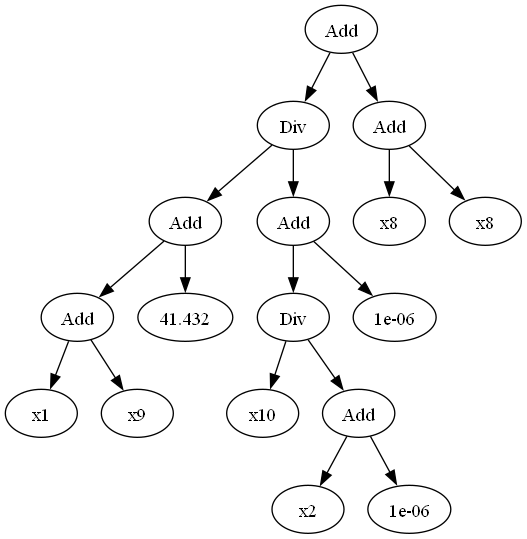
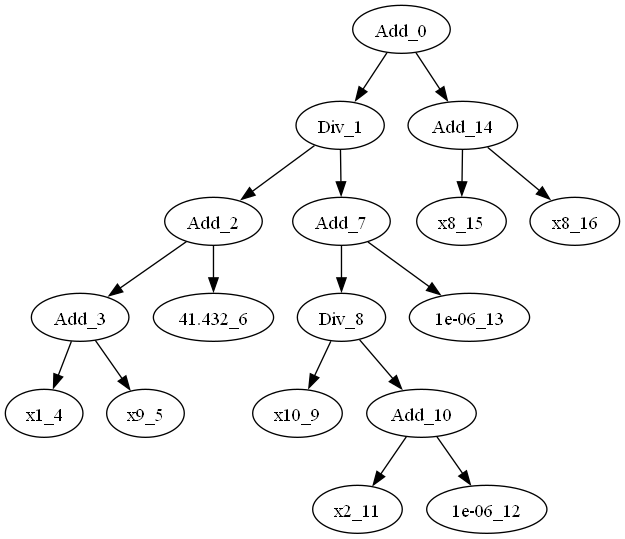
Add a lot of stuff

diff --git a/GpModel/astTest.py b/GpModel/astTest.py
@@ -19,7 +19,6 @@ def get_second_child_name(node):
 
 def create_ast_graph(graph, node, parent_name, index=''):
     current_name = f'{parent_name}_{index}' if parent_name else 'Root'
-    print(str(node.__class__.__name__))
     if isinstance(node, ast.BinOp):
         graph.node(current_name, label=get_second_child_name(node))
         for i, child in enumerate(ast.iter_child_nodes(node)):
@@ -56,7 +55,7 @@ def printSubTrees(node):
             printSubTrees(child_node)
 
 
-expr = "(57.700000/ (x10+1e-6))"
+expr = "(57.700000+ (x10/1e-6))"
 parsed = ast.parse(expr)
 
 expr2 = "x0 * (x10+1e-6)"
@@ -66,38 +65,65 @@ expr3= "(((x1+(2.793000*x8))*(57.470000*(32.096000+x2)))+(((36.191000/ (x6+1e-6)
 parsed3 = ast.parse(expr3)
 
 subtrees = []
-printSubTrees(parsed)
-printSubTrees(parsed2)
-printSubTrees(parsed3)
+# printSubTrees(parsed)
+# printSubTrees(parsed2)
+# printSubTrees(parsed3)
 # print(subtrees)
 
-subDic = {}
-speedDic = {}
-testExpr = "x0 * (x10+1e-6)"
-for subtree in subtrees:
-    symExpr = parse_expr(subtree)
-    test = simplify(parse_expr(testExpr)- symExpr)
-    speedDic[test] = speedDic.get(test, 0) + 1
-    found = False
-    if speedDic[test] > 1:
-        for key in subDic:
-            print("sym:", symExpr, "key:", key)
-            if simplify(key - symExpr) == 0:
-                subDic[key] = subDic.get(key, 0) + 1
-                found = True
-                break
-    if not found:
-        subDic[symExpr] = subDic.get(symExpr, 0) + 1
-subDic = sorted(subDic.items(), key=lambda x:x[1], reverse=True)
-print(subDic)
+# subDic = {}
+# speedDic = {}
+# testExpr = "x0 * (x10+1e-6)"
+# for subtree in subtrees:
+#     symExpr = parse_expr(subtree)
+#     test = simplify(parse_expr(testExpr)- symExpr)
+#     speedDic[test] = speedDic.get(test, 0) + 1
+#     found = False
+#     if speedDic[test] > 1:
+#         for key in subDic:
+#             print("sym:", symExpr, "key:", key)
+#             if simplify(key - symExpr) == 0:
+#                 subDic[key] = subDic.get(key, 0) + 1
+#                 found = True
+#                 break
+#     if not found:
+#         subDic[symExpr] = subDic.get(symExpr, 0) + 1
+# subDic = sorted(subDic.items(), key=lambda x:x[1], reverse=True)
+# print(subDic)
 # Create the graph
+class MyRemover(ast.NodeTransformer):
+    def __init__(self, node_number):
+        self.node_number = node_number
+        self.index = 0
+
+    def generic_visit(self, node):
+        result = super().generic_visit(node)
+        # print(node.__class__.__name__, self.index)
+
+        if not (isinstance(node, ast.Module) or isinstance(node, ast.Expr)):
+            self.index += 1
+        if self.node_number == self.index:
+            print("Removing:", node.__class__.__name__, self.index-1)
+            return None
+        return result
+    
+    # def visit_Div(self, node):
+    #     node2 = ast.Add()
+    #     ast.copy_location(node2, node)
+    #     ast.NodeVisitor.generic_visit(self, node2)
+    #     return node2
+
+
+visitor = MyRemover(20)
+newTree = visitor.visit(parsed)
+# newTree = ast.fix_missing_locations(newTree)
 # graph = Digraph(comment='AST Tree')
-# create_ast_graph(graph, parsed, '')
+# create_ast_graph(graph, newTree, '')
 
-# Render and save the graph
+# # Render and save the graph
 # graph.render('ast_tree', format='png', cleanup=True)
+# print("Done rendering")
 
-# normal = ast.unparse(parsed)
-# print(normal)
-# dump = ast.dump(parsed, annotate_fields=True)
-# print(dump)
+normal = ast.unparse(newTree)
+print(normal)
+dump = ast.dump(parsed, annotate_fields=True)
+print(dump)

diff --git a/explain/actions/ops.py b/explain/actions/ops.py
@@ -157,31 +157,34 @@ def get_second_child_name(node):
         if i == 1:
             return str(child.__class__.__name__)
 
-def create_ast_graph(graph, node, parent_name, index=''):
+def create_ast_graph(graph, node, parent_name, index='', num=-1):
     current_name = f'{parent_name}_{index}' if parent_name else 'Root'
+    num += 1
     print(str(node.__class__.__name__))
     if isinstance(node, ast.BinOp):
-        graph.node(current_name, label=get_second_child_name(node))
+        graph.node(current_name, label=f'{get_second_child_name(node)}_{num}')
         for i, child in enumerate(ast.iter_child_nodes(node)):
             if i == 1:
                 continue
             child_name = f'{current_name}_{i}'
             graph.edge(current_name, child_name)
-            create_ast_graph(graph, child, current_name, i)
+            num = create_ast_graph(graph, child, current_name, i, num)
     elif isinstance(node, ast.Constant):
-        graph.node(current_name, label=str(node.value))
+        graph.node(current_name, label=f'{node.value}_{num}')
     elif isinstance(node, ast.Name):
-        graph.node(current_name, label=str(node.id))
+        graph.node(current_name, label=f'{node.id}_{num}')
     elif isinstance(node, ast.Module) or isinstance(node, ast.Expr):
+        num -= 1
         for i, child in enumerate(ast.iter_child_nodes(node)):
             child_name = f'{current_name}_{i}'
-            create_ast_graph(graph, child, current_name, i)
+            num = create_ast_graph(graph, child, current_name, i, num)
     elif isinstance(node, ast.AST):
-        graph.node(current_name, label=str(node.__class__.__name__))
+        graph.node(current_name, label=f'{node.__class__.__name__}_{num}')
         for i, child in enumerate(ast.iter_child_nodes(node)):
             child_name = f'{current_name}_{i}'
             graph.edge(current_name, child_name)
-            create_ast_graph(graph, child, current_name, i)
+            num = create_ast_graph(graph, child, current_name, i, num)
+    return num
 
 def plot_tree_operation(conversation, parse_text, i, **kwargs):
     # return_string = '<img src="https://upload.wikimedia.org/wikipedia/commons/7/70/2005-bandipur-tusker.jpg" alt="Girl in a jacket" width="500" height="600">'

diff --git a/GpModel/runModel.py b/GpModel/runModel.py
@@ -1,9 +1,29 @@
 from data.customClassifier import CustomClassifier
+import ast
 
 # expr = "((((x1+x9)+41.432000)/ ((x10/ (x2+1e-6) )+1e-6) )+(x8+x8))"
 expr = "(57.700000/ (x10+1e-6))"
+expr = "(57.700000/ (log(3)))"
 classifier = CustomClassifier(expr, 5, 6)
 # X = [[3,0,7,0,6,0,1,0.686667,0.638263,0.585,0.208342]]
 # res = classifier.predict(X)
-res = classifier.subtrees
-print(res)
+res = classifier.ast
+class MyVisitor(ast.NodeTransformer):
+    def __init__(self, node_number):
+        self.node_number = node_number
+        self.index = 0
+
+    def generic_visit(self, node):
+        result = super().generic_visit(node)
+        print(node.__class__.__name__, self.index)
+        if not (isinstance(node, ast.Module) or isinstance(node, ast.Expr)):
+            self.index += 1
+        
+        if self.node_number == self.index:
+            return None
+        return result
+
+
+visitor = MyVisitor(2)
+new = visitor.visit(res)
+# print(res)

diff --git a/explain/conversation.py b/explain/conversation.py
@@ -58,7 +58,7 @@ class Conversation:
                  rounding_precision: int = 3,
                  index_col: int = 0,
                  target_var_name: str = "y",
-                 default_metric: str = "explained accuracy score",
+                 default_metric: str = "explained variance score",
                  eval_file_path: str = None,
                  feature_definitions: dict = None):
         """
